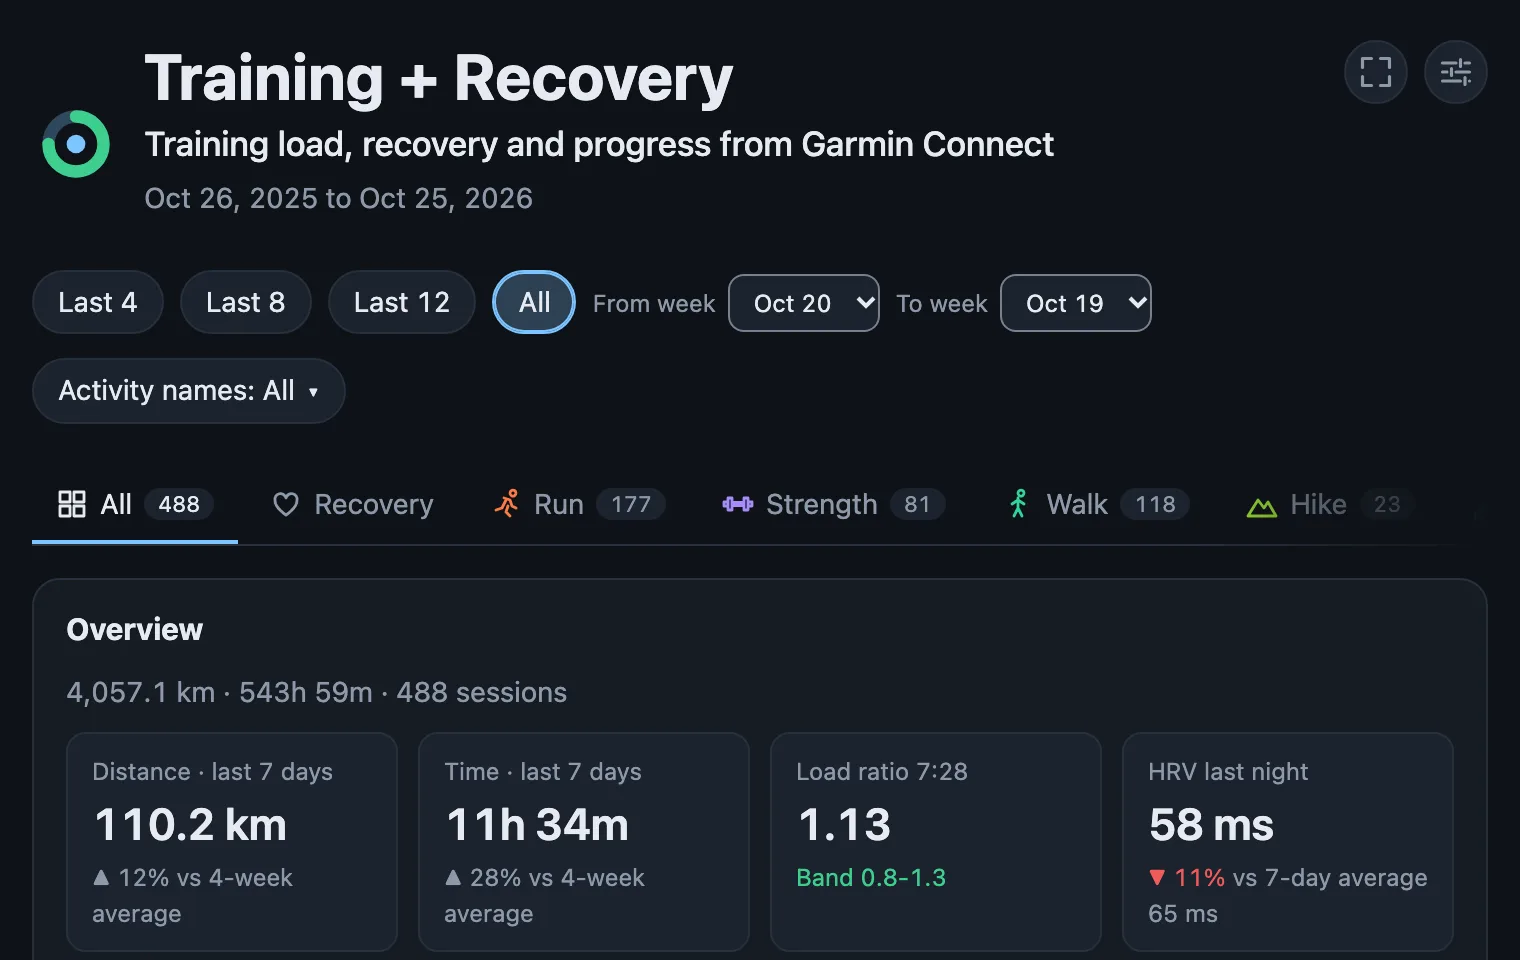
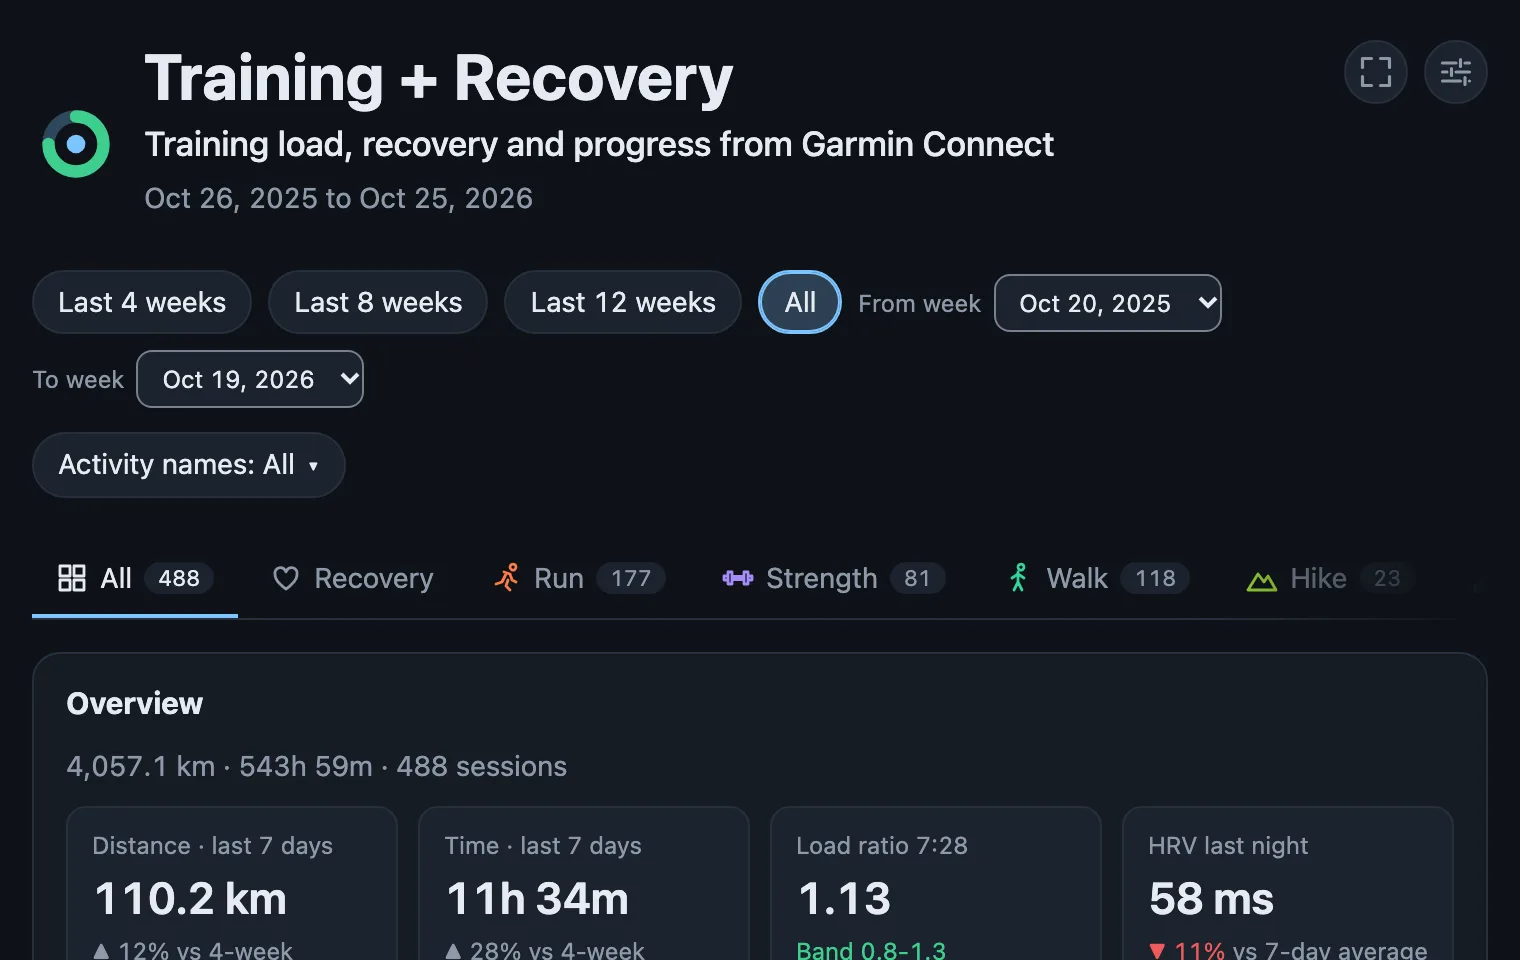
fix(page): name the unit of the window buttons and show the year in dates
The window buttons said "Last 4" without a unit, and the week menus and
the Period comparison line had no year, so a long window was unclear.
The buttons now say "Last 4 weeks" in all six languages, and these dates
use the same format as the header.

Fixes #261

diff --git a/test/e2e/dashboard.e2e.ts b/test/e2e/dashboard.e2e.ts
@@ -573,7 +573,7 @@ describe("the page", () => {
       { hash: "#all@2026-08-03_2026-10-26" },
     );
     const sel = "[data-widget=periodComparison]";
-    expect(await page.textContent(`${sel} p`)).toContain("May 10 to Aug 2");
+    expect(await page.textContent(`${sel} p`)).toContain("May 10, 2026 to Aug 2, 2026");
     // 1 session now against 3 before: the row of 9 May is outside the 85 days
     expect(await page.textContent(`${sel} tbody tr:first-child td:nth-child(2)`)).toContain(
       "1 ▼ 67%",
@@ -596,7 +596,7 @@ describe("the page", () => {
       { hash: "#all@2026-08-03_2026-10-19" },
     );
     const sel = "[data-widget=periodComparison]";
-    expect(await page.textContent(`${sel} p`)).toContain("May 11 to Aug 2");
+    expect(await page.textContent(`${sel} p`)).toContain("May 11, 2026 to Aug 2, 2026");
     // 1 session now against 3 before; ending on the Monday would give 78 days from 17 May, so 1
     expect(await page.textContent(`${sel} tbody tr:first-child td:nth-child(2)`)).toContain(
       "1 ▼ 67%",
@@ -1965,7 +1965,21 @@ describe("phone", () => {
     await page.click(".window-toggle");
     expect(await page.getAttribute(".window-toggle", "aria-expanded")).toBe("true");
     await page.click(".window-bar .chip >> text=Last 4");
-    expect(await page.textContent(".window-toggle")).toBe("Weeks: Last 4 ▾");
+    expect(await page.textContent(".window-toggle")).toBe("Weeks: Last 4 weeks ▾");
+  });
+
+  it("shows the year in the week menus and in a custom range", async () => {
+    const { page } = await open(browser, pageFile(), phone);
+    const options = await page.$$eval("#from option", (list) =>
+      list.map((o) => o.textContent ?? ""),
+    );
+    expect(options.length).toBeGreaterThan(0);
+    for (const text of options) expect(text).toMatch(/, \d{4}/);
+    await page.click(".window-toggle");
+    await page.selectOption("#from", { index: 2 }); // 11 weeks: no preset
+    expect(await page.textContent(".window-toggle")).toMatch(
+      /^Weeks: \w{3} \d{1,2}, \d{4} – \w{3} \d{1,2}, \d{4} ▾$/,
+    );
   });
 
   it("keeps the header at the top, and fades the tabs that are out of view", async () => {
@@ -1989,7 +2003,7 @@ describe("focus", () => {
     const { page } = await open(browser, pageFile());
     await page.focus(".window-bar .chip >> text=Last 8");
     await page.keyboard.press("Enter");
-    expect(await focused(page)).toBe("Last 8");
+    expect(await focused(page)).toBe("Last 8 weeks");
     await page.click(".account summary");
     await page.focus("#theme");
     await page.selectOption("#theme", "light");

diff --git a/src/page/app.ts b/src/page/app.ts
@@ -519,7 +519,7 @@ function windowBar(inProgress: boolean): HTMLElement {
   const presets = [4, 8, 12].filter((n) => n < weeks.length);
   const isLast = (n: number) => view.to === weeks.at(-1) && view.from === weeks[weeks.length - n];
   const label = (w: string, i: number) =>
-    `${fmt.day(w)}${inProgress && i === weeks.length - 1 ? " *" : ""}`;
+    `${fmt.longDay(w)}${inProgress && i === weeks.length - 1 ? " *" : ""}`;
   const select = (id: string, value: string, onChange: (v: string) => void) =>
     h(
       "select",
@@ -532,7 +532,7 @@ function windowBar(inProgress: boolean): HTMLElement {
       ? t("window.last", { n: shown })
       : view.from === weeks[0] && view.to === weeks.at(-1)
         ? t("window.all")
-        : `${fmt.day(view.from)} – ${fmt.day(view.to)}`;
+        : `${fmt.longDay(view.from)} – ${fmt.longDay(view.to)}`;
   const toggle = h(
     "button",
     {

diff --git a/src/page/widgets/overview.ts b/src/page/widgets/overview.ts
@@ -204,10 +204,10 @@ register({
         "p",
         { class: "muted small" },
         t("pc.vs", {
-          from: fmt.day(ctx.from),
-          to: fmt.day(end),
-          pfrom: fmt.day(prev.from),
-          pto: fmt.day(prev.to),
+          from: fmt.longDay(ctx.from),
+          to: fmt.longDay(end),
+          pfrom: fmt.longDay(prev.from),
+          pto: fmt.longDay(prev.to),
         }),
         prev.partial && ` (${t("pc.partial")})`,
       ),

diff --git a/test/page/i18n.test.ts b/test/page/i18n.test.ts
@@ -98,8 +98,8 @@ describe("pickLang", () => {
 
 describe("translator", () => {
   it("fills placeholders", () => {
-    expect(translator("en")("window.last", { n: 4 })).toBe("Last 4");
-    expect(translator("it")("window.last", { n: 4 })).toBe("Ultime 4");
+    expect(translator("en")("window.last", { n: 4 })).toBe("Last 4 weeks");
+    expect(translator("it")("window.last", { n: 4 })).toBe("Ultime 4 settimane");
   });
 });
 

diff --git a/guide/dashboard.md b/guide/dashboard.md
@@ -266,7 +266,7 @@ in the order of their keys. Other is always the last tab.
 Above the boards is **the week window**: the last 4, 8 or 12 weeks, all the weeks, or a first and a
 last week. The page has whole weeks: its data starts on the Monday of its first week. Every widget about training follows the window. The widgets about today do not follow it:
 readiness, fitness age and the 14-day recovery widgets. On a phone the window folds into one control,
-for example **Weeks: Last 12**, and the header stays at the top while you scroll.
+for example **Weeks: Last 12 weeks**, and the header stays at the top while you scroll.
 
 Below the window, **Activity names** shows only the activities with the names you choose, for
 example the sessions of a training plan. It opens a list of the names of the window on the current

diff --git a/guide/languages.md b/guide/languages.md
@@ -89,7 +89,7 @@ out. To add one:
 | `theme.hcDark` | High contrast dark |
 | `theme.hcLight` | High contrast light |
 | `window.label` | Weeks |
-| `window.last` | Last {n} |
+| `window.last` | Last {n} weeks |
 | `window.all` | All |
 | `window.from` | From week |
 | `window.to` | To week |
